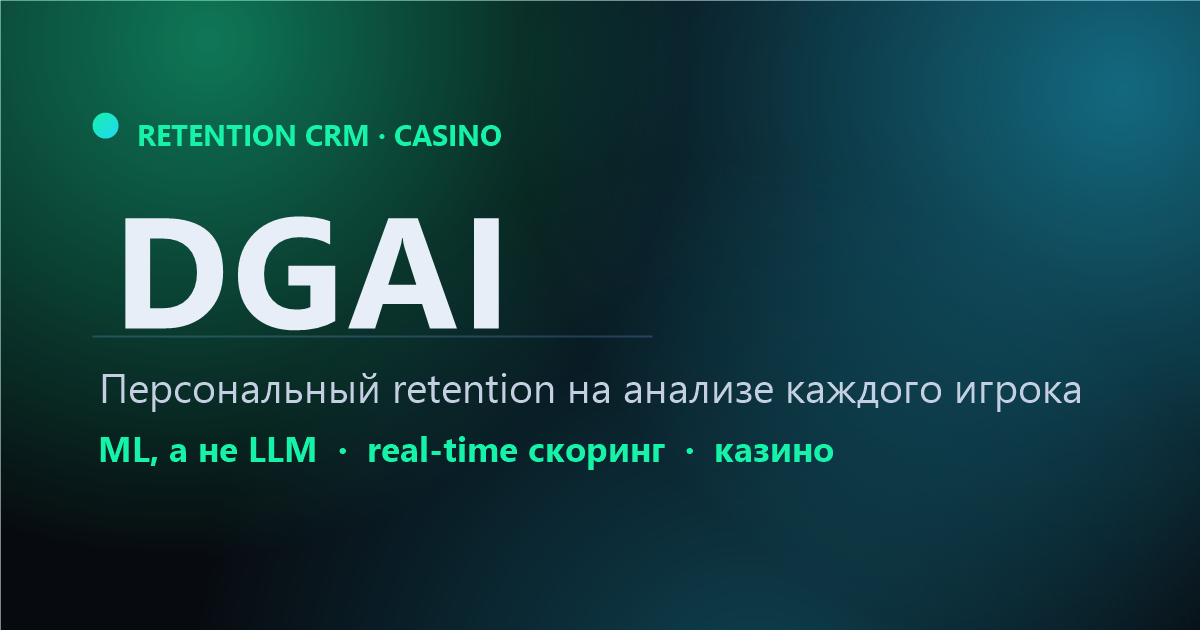
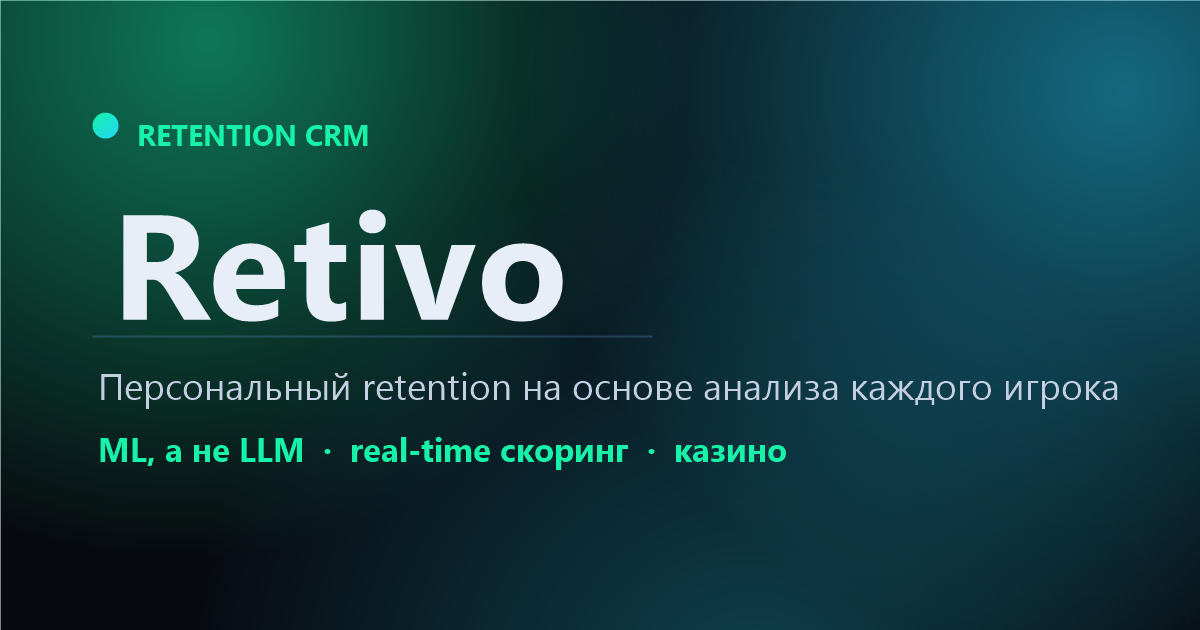
Rebrand DGAI -> Retivo (config, title, OG meta, OG image, dashboard label)

diff --git a/index.html b/index.html
@@ -3,7 +3,7 @@
 <head>
 <meta charset="UTF-8">
 <meta name="viewport" content="width=device-width, initial-scale=1.0">
-<title>DGAI — Retention CRM для казино</title>
+<title>Retivo — Retention CRM</title>
 <meta name="description" content="AI-CRM, которая принимает решение по каждому игроку отдельно — кого удержать, кого реактивировать. ML, а не LLM.">
 
 <!-- favicon -->
@@ -16,12 +16,12 @@
 
 <!-- Open Graph / превью ссылки -->
 <meta property="og:type" content="website">
-<meta property="og:title" content="DGAI — Retention CRM для казино">
+<meta property="og:title" content="Retivo — Retention CRM">
 <meta property="og:description" content="Персональный retention на анализе каждого игрока. ML, а не LLM. Real-time скоринг для casino.">
 <meta property="og:image" content="https://dgai-max-s-projects321.vercel.app/og.png">
 <meta property="og:url" content="https://dgai-max-s-projects321.vercel.app/">
 <meta name="twitter:card" content="summary_large_image">
-<meta name="twitter:title" content="DGAI — Retention CRM для казино">
+<meta name="twitter:title" content="Retivo — Retention CRM">
 <meta name="twitter:description" content="Персональный retention на анализе каждого игрока. ML, а не LLM.">
 <meta name="twitter:image" content="https://dgai-max-s-projects321.vercel.app/og.png">
 
@@ -31,7 +31,7 @@
 <!-- ============================================================= -->
 <script>
   window.SITE_CONFIG = {
-    brand: "DGAI",                          // название продукта/компании
+    brand: "Retivo",                        // название продукта/компании
     telegram: "Moneylong001",               // ник без @ — для кнопки и формы
     whatsapp: "",                           // номер в формате [phone redacted] (пусто = скрыть)
     email: "[email redacted]",             // контактный email
@@ -464,7 +464,7 @@
     <h2 data-en="All your data on one screen">Все данные — на одном экране</h2>
   </div>
   <div class="dash reveal">
-    <div class="dash-bar"><span class="d"></span><span class="d"></span><span class="d"></span><span class="url" data-en="dgai · overview">dgai · обзор</span></div>
+    <div class="dash-bar"><span class="d"></span><span class="d"></span><span class="d"></span><span class="url" data-en="retivo · overview">retivo · обзор</span></div>
     <div class="dash-body">
       <div class="kpis">
         <div class="kpi"><div class="k-lbl" data-en="Players">Игроки</div><div class="k-num">12 480</div><div class="k-delta" data-en="+6.2% / week">+6,2% / нед</div></div>